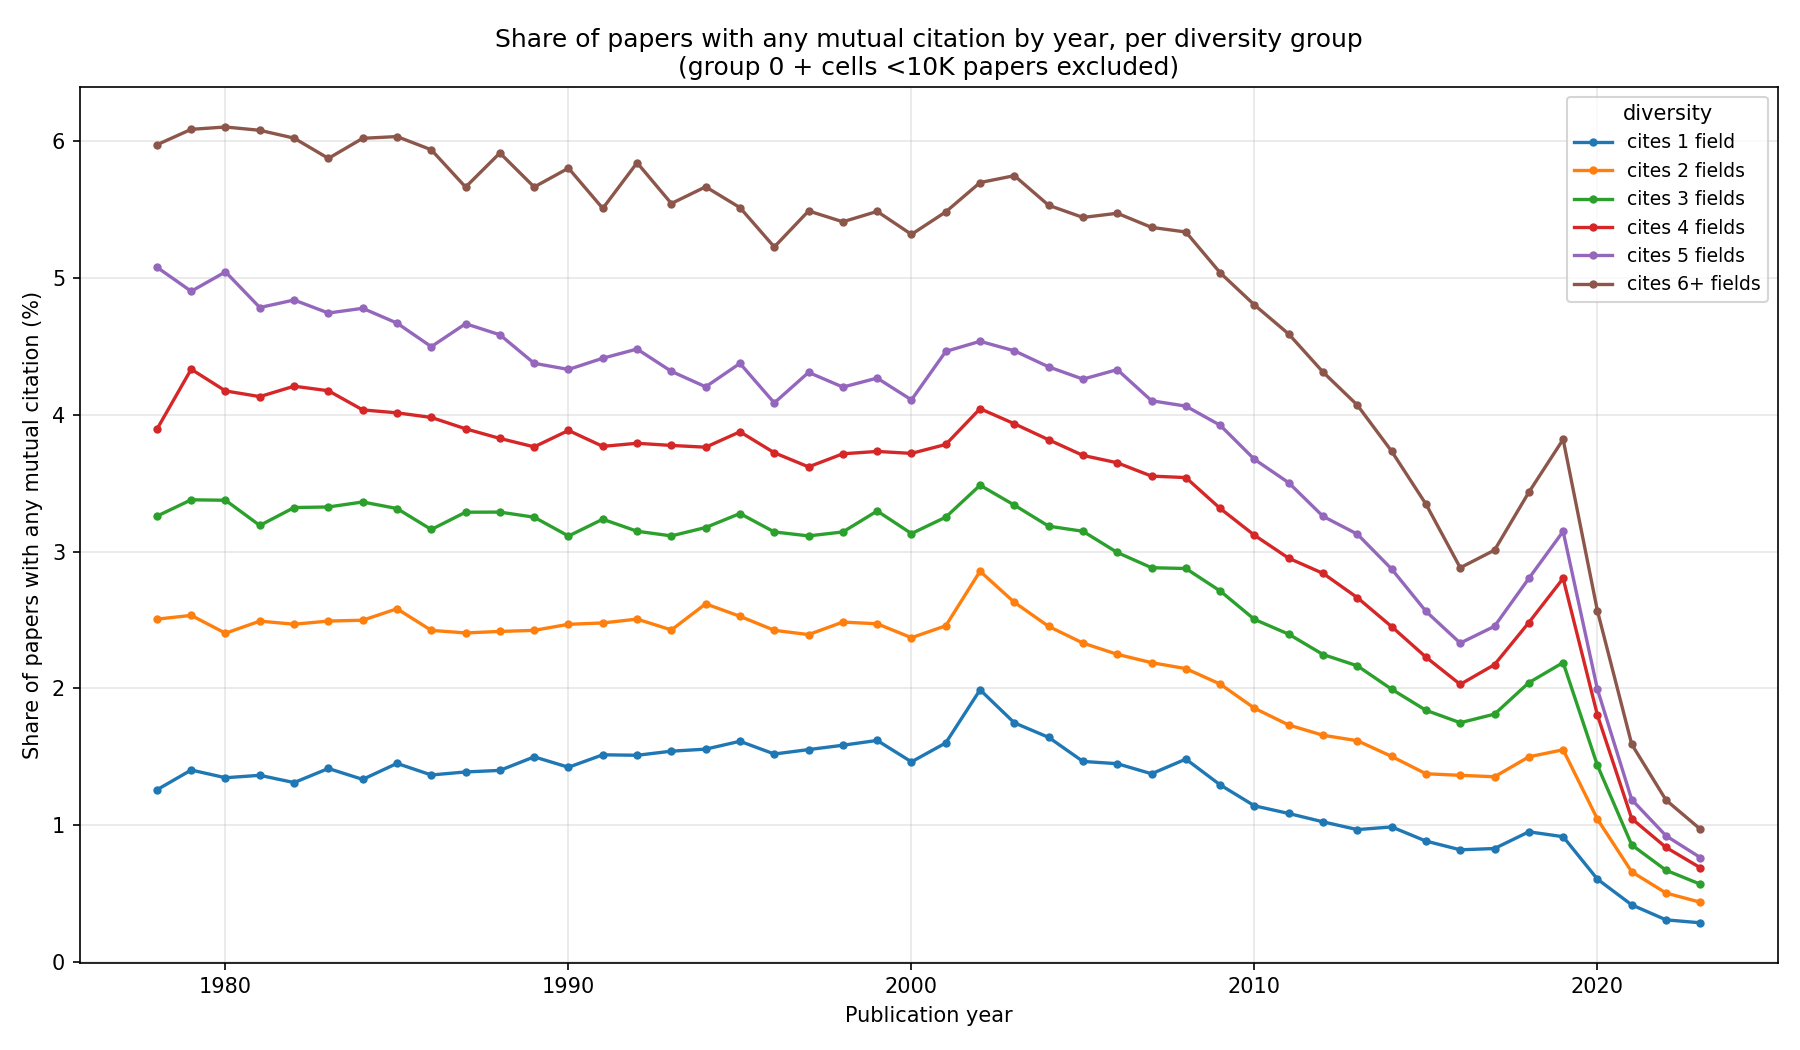
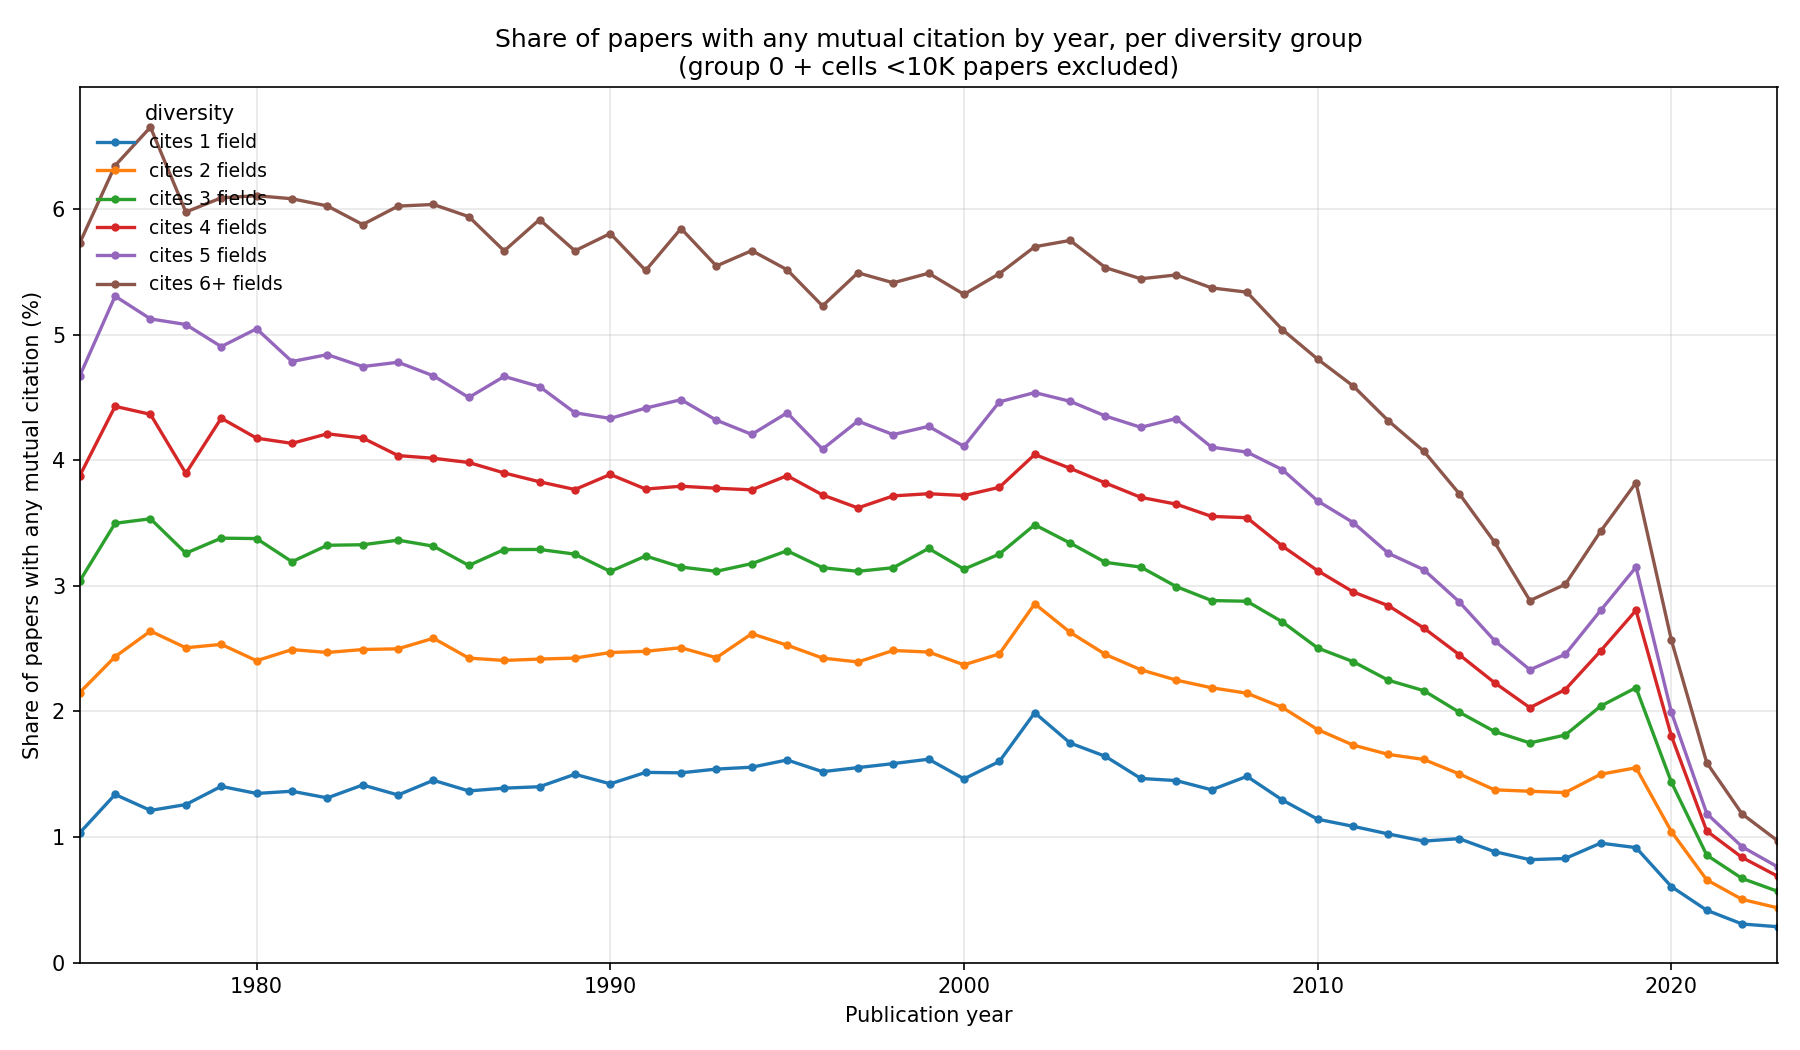
updated graphs

diff --git a/analysis/plot_mutual_by_diversity.py b/analysis/plot_mutual_by_diversity.py
@@ -38,7 +38,7 @@ OUT_PNG = os.environ.get(
 )
 MEM = os.environ.get("MEM", "10GB")
 MIN_PAPERS = int(os.environ.get("MIN_PAPERS", "10000"))
-MIN_YEAR = int(os.environ.get("MIN_YEAR", "0"))
+MIN_YEAR = int(os.environ.get("MIN_YEAR", "1975"))
 MAX_YEAR = int(os.environ.get("MAX_YEAR", "2023"))
 GROUPS = ["1", "2", "3", "4", "5", "6+"]
 
@@ -151,11 +151,9 @@ def write_outputs(rows):
     )
     ax.grid(True, alpha=0.3)
     ax.set_ylim(bottom=0)
-    ax.set_xlim(left=MIN_YEAR, right=2023)
-    ax.legend(
-        title="diversity", fontsize=9, loc="upper left", bbox_to_anchor=(1.01, 1.0)
-    )
-    fig.tight_layout(rect=(0, 0, 0.82, 1))
+    ax.set_xlim(left=MIN_YEAR, right=MAX_YEAR)
+    ax.legend(title="diversity", fontsize=9, loc="upper right", frameon=False)
+    fig.tight_layout()
     fig.savefig(OUT_PNG, dpi=150)
     print(f"wrote {OUT_PNG}")
 

diff --git a/analysis/plot_mutual_paper_share_by_diversity.py b/analysis/plot_mutual_paper_share_by_diversity.py
@@ -39,7 +39,7 @@ OUT_PNG = os.environ.get(
 )
 MEM = os.environ.get("MEM", "10GB")
 MIN_PAPERS = int(os.environ.get("MIN_PAPERS", "10000"))
-MIN_YEAR = int(os.environ.get("MIN_YEAR", "0"))
+MIN_YEAR = int(os.environ.get("MIN_YEAR", "1975"))
 MAX_YEAR = int(os.environ.get("MAX_YEAR", "2023"))
 GROUPS = ["1", "2", "3", "4", "5", "6+"]
 
@@ -142,11 +142,9 @@ def write_outputs(rows):
     )
     ax.grid(True, alpha=0.3)
     ax.set_ylim(bottom=0)
-    ax.set_xlim(left=MIN_YEAR, right=2023)
-    ax.legend(
-        title="diversity", fontsize=9, loc="upper left", bbox_to_anchor=(1.01, 1.0)
-    )
-    fig.tight_layout(rect=(0, 0, 0.82, 1))
+    ax.set_xlim(left=MIN_YEAR, right=MAX_YEAR)
+    ax.legend(title="diversity", fontsize=9, loc="upper right", frameon=False)
+    fig.tight_layout()
     fig.savefig(OUT_PNG, dpi=150)
     print(f"wrote {OUT_PNG}")
 

diff --git a/analysis/plot_mean_mutual_and_diversity.py b/analysis/plot_mean_mutual_and_diversity.py
@@ -36,7 +36,7 @@ OUT_PNG = os.environ.get(
 )
 MEM = os.environ.get("MEM", "10GB")
 MIN_PAPERS = int(os.environ.get("MIN_PAPERS", "10000"))
-MIN_YEAR = int(os.environ.get("MIN_YEAR", "0"))
+MIN_YEAR = int(os.environ.get("MIN_YEAR", "1975"))
 MAX_YEAR = int(os.environ.get("MAX_YEAR", "2023"))
 
 
@@ -159,10 +159,7 @@ def write_outputs(rows):
         "(papers citing >=1 work; diversity_count counted raw)"
     )
     ax1.set_xlim(left=MIN_YEAR, right=2023)
-    ax1.legend(
-        handles=[l1, l2], loc="upper left", bbox_to_anchor=(1.01, 1.0), fontsize=9
-    )
-    fig.tight_layout(rect=(0, 0, 0.82, 1))
+    fig.tight_layout()
     fig.savefig(OUT_PNG, dpi=150)
     print(f"wrote {OUT_PNG}")
 
